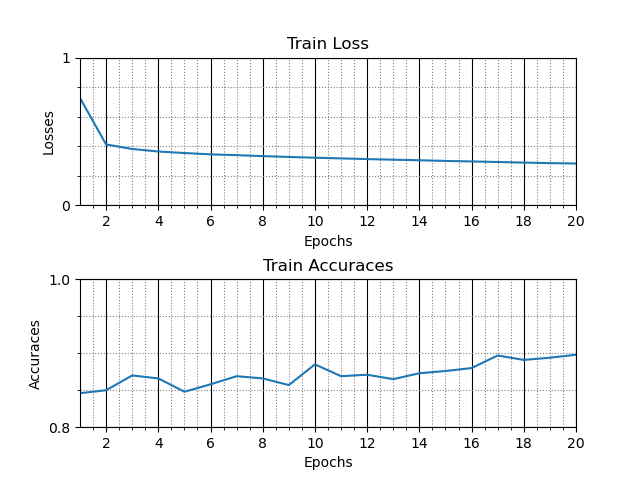
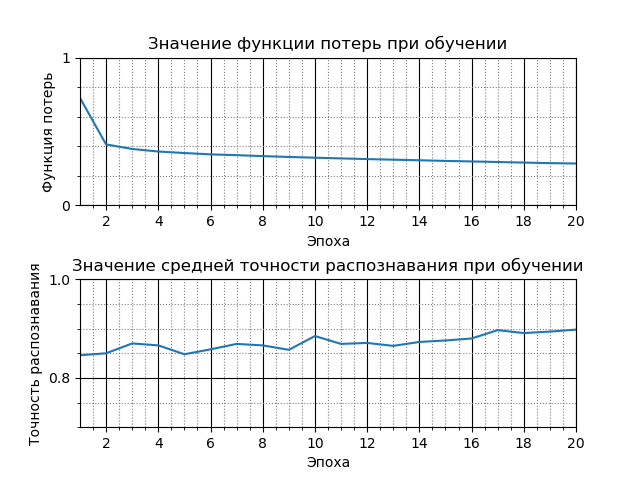
russian description for graphs

diff --git a/graphs_loader.py b/graphs_loader.py
@@ -49,9 +49,9 @@ def graphics_show_loss_acc(saved_file,epmin=1,epmax=20,
     axes[0].set_ylim(lossmin, lossmax)
     axes[0].set_xlim(epmin, epmax)
     
-    axes[0].set_xlabel("Epochs") # ось абсцисс
-    axes[0].set_ylabel("Losses") # ось ординат
-    axes[0].set_title("Train Loss")    
+    axes[0].set_xlabel("Эпоха") # ось абсцисс
+    axes[0].set_ylabel("Функция потерь") # ось ординат
+    axes[0].set_title("Значение функции потерь при обучении")    
     
     axes[0].xaxis.set_major_locator(ticker.MultipleLocator(2))
     axes[0].xaxis.set_minor_locator(ticker.MultipleLocator(1))
@@ -70,9 +70,9 @@ def graphics_show_loss_acc(saved_file,epmin=1,epmax=20,
     axes[1].set_ylim(accmin, accmax)
     axes[1].set_xlim(epmin, epmax)
     
-    axes[1].set_xlabel("Epochs") # ось абсцисс
-    axes[1].set_ylabel("Accuraces") # ось ординат
-    axes[1].set_title("Train Accuraces")
+    axes[1].set_xlabel("Эпоха") # ось абсцисс
+    axes[1].set_ylabel("Точность распознавания") # ось ординат
+    axes[1].set_title("Значение средней точности распознавания при обучении")
    
     
     axes[1].xaxis.set_major_locator(ticker.MultipleLocator(2))
@@ -87,5 +87,5 @@ def graphics_show_loss_acc(saved_file,epmin=1,epmax=20,
     
 
 print("Input Report Filename:")
-saved_file=str(input())
+saved_file=str(input()).strip('"')
 graphics_show_loss_acc(saved_file,epmax=20,lossmax=1,accmin=0.7)
